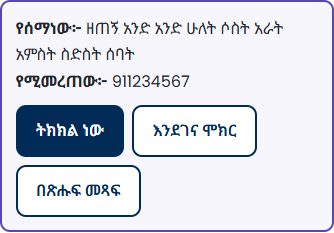
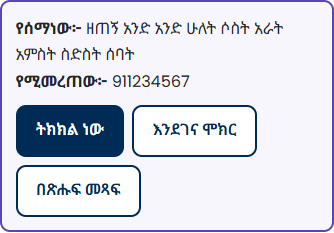
fix(sms): dispatch resume SMS on phone entry and synchronize checkpoints across all forms

Changed region(s): [[0.4491, 0.5107, 0.7186, 0.6009], [0.0898, 0.7811, 0.3593, 0.8412], [0.0898, 0.5107, 0.3293, 0.6009]]

diff --git a/app/src/App.tsx b/app/src/App.tsx
@@ -2,6 +2,7 @@ import { useCallback, useEffect, useRef, useState } from 'react';
 import type { Lang, Schema, Step } from './types';
 import { t, tpl, errorText } from './i18n';
 import { useForm, useCancelSpeechOnKey } from './useForm';
+import { normalizePhoneET } from './validation';
 import { Field, questionText, hintText, whyText, bodyText, optionText } from './fields';
 import { ErrorSummary, ReviewScreen, SettingsBar, reviewText } from './screens';
 import { ReadAloudButton, speak } from './speech';
@@ -221,6 +222,16 @@ function Shell({ schema }: { schema: Schema }) {
   const announcedNet = useRef<boolean | null>(null);
   const [smsSent, setSmsSent] = useState(false);
   const lastSmsPhone = useRef<string>('');
+  const checkpointToken = useRef<string | null>(null);
+  const lastSyncHash = useRef<string>('');
+  const isRestoring = useRef(Boolean(typeof window !== 'undefined' && new URLSearchParams(window.location.search).get('resume')));
+
+  // Identify phone field dynamically across schemas ('phone', 'job-phone', 'contact')
+  const telStep = schema.steps.find((s) => s.type === 'tel');
+  const telStepIndex = telStep ? steps.findIndex((s) => s.id === telStep.id) : -1;
+  const phoneValue = (telStep ? values[telStep.id] : (values.phone || values['job-phone'] || values.contact)) as string | undefined;
+  const isPhoneValid = Boolean(phoneValue && normalizePhoneET(String(phoneValue)));
+  const passedPhoneStep = telStepIndex >= 0 && index > telStepIndex;
 
   // Restore from URL query token if ?resume=<token>
   useEffect(() => {
@@ -228,32 +239,33 @@ function Shell({ schema }: { schema: Schema }) {
     const params = new URLSearchParams(window.location.search);
     const resumeToken = params.get('resume');
     if (!resumeToken) return;
+    checkpointToken.current = resumeToken;
     fetch(`/api/checkpoints/${encodeURIComponent(resumeToken)}`)
       .then((r) => r.json())
       .then((data) => {
         if (data.ok && data.checkpoint) {
           const cp = data.checkpoint;
           f.restoreCheckpoint(cp.answers, cp.currentStep);
+          setSmsSent(true);
+          const p = cp.phone || cp.answers?.phone || cp.answers?.['job-phone'] || cp.answers?.contact;
+          if (p) lastSmsPhone.current = String(p);
+          lastSyncHash.current = `${cp.currentStep ?? 0}:${Object.keys(cp.answers || {}).length}:${JSON.stringify(cp.answers || {})}`;
         }
       })
-      .catch(() => {});
+      .catch(() => {})
+      .finally(() => {
+        isRestoring.current = false;
+      });
   }, []);
 
-  // When connection drops on an unfinished form with a phone number, send SMS resume link
-  useEffect(() => {
-    if (online) {
-      setSmsSent(false);
-      return;
-    }
-    const phone = f.values.phone as string | undefined;
-    if (!phone || f.submitted) return;
-    setSmsSent(true);
-    if (lastSmsPhone.current === phone) return;
+  // Dispatch SMS resume link and persist checkpoint token
+  const sendResumeSms = useCallback((phone: string) => {
     lastSmsPhone.current = phone;
     const payload = JSON.stringify({
+      token: checkpointToken.current || undefined,
       phone,
-      answers: f.values,
-      currentStep: f.index,
+      answers: values,
+      currentStep: index,
       stepId: step?.id,
       formId: schema.id,
       lang,
@@ -268,8 +280,71 @@ function Shell({ schema }: { schema: Schema }) {
       method: 'POST',
       headers: { 'Content-Type': 'application/json' },
       body: payload,
+    })
+      .then((r) => r.json())
+      .then((data) => {
+        if (data.ok) {
+          setSmsSent(true);
+          if (data.token) {
+            checkpointToken.current = data.token;
+            try {
+              localStorage.setItem(`op_cp_${schema.id}`, data.token);
+            } catch { /* ignore */ }
+          }
+        }
+      })
+      .catch(() => {});
+  }, [values, index, step?.id, schema.id, lang]);
+
+  // Online SMS trigger: as soon as phone is validated and either advanced past or typed
+  useEffect(() => {
+    if (!online || f.submitted || !isPhoneValid || !phoneValue || isRestoring.current) return;
+
+    if (passedPhoneStep && lastSmsPhone.current !== phoneValue) {
+      sendResumeSms(phoneValue);
+      return;
+    }
+
+    const timer = setTimeout(() => {
+      if (lastSmsPhone.current !== phoneValue) {
+        sendResumeSms(phoneValue);
+      }
+    }, 1200);
+
+    return () => clearTimeout(timer);
+  }, [online, passedPhoneStep, isPhoneValid, phoneValue, f.submitted, sendResumeSms]);
+
+  // Offline drop trigger: guarantee banner shows confirmation and attempt fallback send
+  useEffect(() => {
+    if (online) return;
+    if (isPhoneValid && !f.submitted) {
+      setSmsSent(true);
+      if (phoneValue && lastSmsPhone.current !== phoneValue) {
+        sendResumeSms(phoneValue);
+      }
+    }
+  }, [online, isPhoneValid, phoneValue, f.submitted, sendResumeSms]);
+
+  // Background checkpoint synchronization as subsequent answers are filled while online
+  useEffect(() => {
+    if (!online || !checkpointToken.current || f.submitted || isRestoring.current) return;
+    const hash = `${index}:${Object.keys(values).length}:${JSON.stringify(values)}`;
+    if (lastSyncHash.current === hash) return;
+    lastSyncHash.current = hash;
+    fetch('/api/checkpoints', {
+      method: 'POST',
+      headers: { 'Content-Type': 'application/json' },
+      body: JSON.stringify({
+        token: checkpointToken.current,
+        formId: schema.id,
+        phone: phoneValue,
+        answers: values,
+        currentStep: index,
+        stepId: step?.id,
+        origin: window.location.origin,
+      }),
     }).catch(() => {});
-  }, [online, f.values.phone, f.submitted, f.index, step?.id, schema.id, lang]);
+  }, [online, index, values, step?.id, schema.id, phoneValue, f.submitted]);
 
   useEffect(() => {
     if (announcedNet.current === online) return;

diff --git a/app/src/JobFilter.tsx b/app/src/JobFilter.tsx
@@ -219,7 +219,7 @@ export function JobListingPage({
       </div>
 
       {/* Action to proceed to register / apply */}
-      <div className="op-job-listing-footer">
+      <div className="op-nav op-job-listing-footer">
         <button
           type="button"
           className="op-btn op-btn-primary op-btn-continue"
